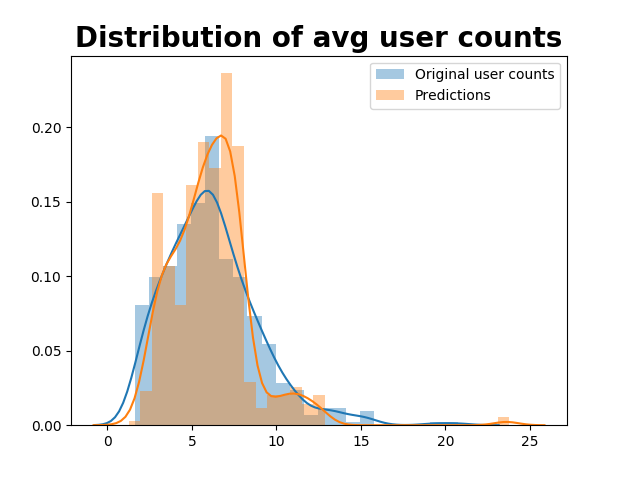
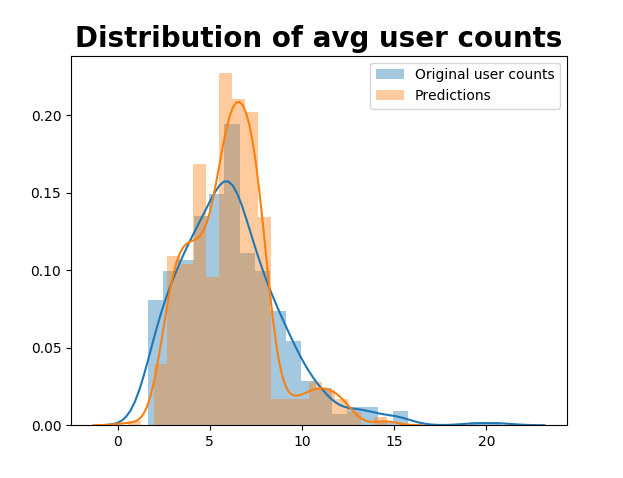
changing batch size matching in prediction and updating result pics

Changed region(s): [[0.0305, 0.0587, 0.9149, 0.9392]]

diff --git a/neuralNet.py b/neuralNet.py
@@ -82,7 +82,7 @@ model = train_model(inputs, outputs, model, epochs, batch_size)
 plt.show()
 
 def predict_model():
-  pred = model.predict(inputs, batch_size=500)
+  pred = model.predict(inputs, batch_size=batch_size)
   
   plt.title(u"Distribution of avg user counts", fontweight='bold', fontsize=20)
   sns.distplot(outputs)
